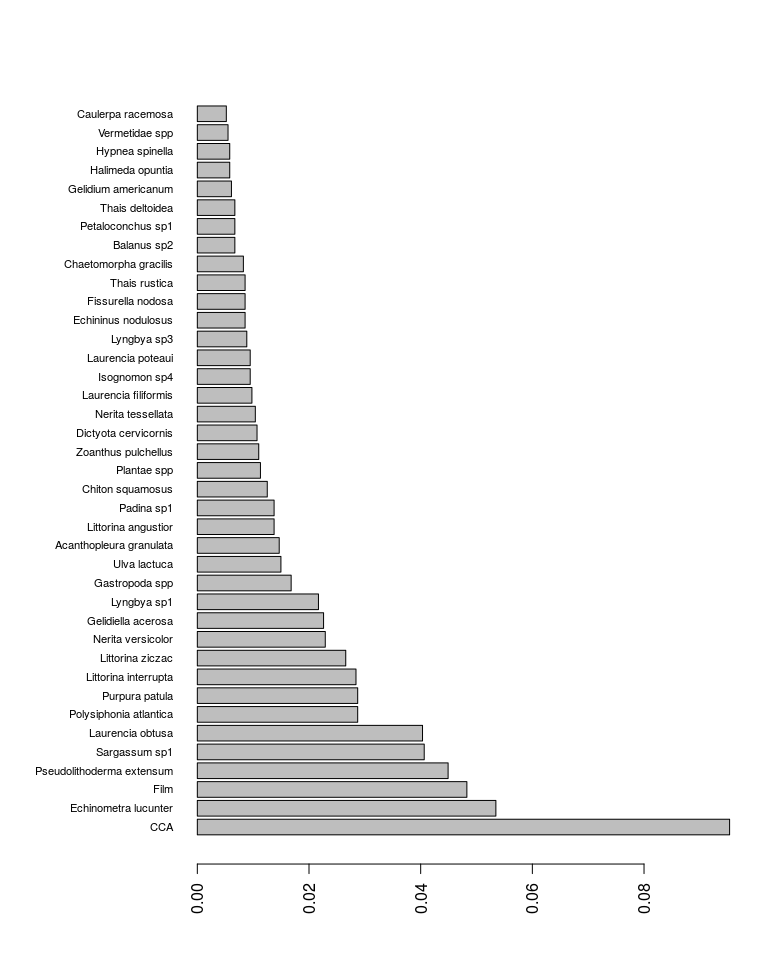
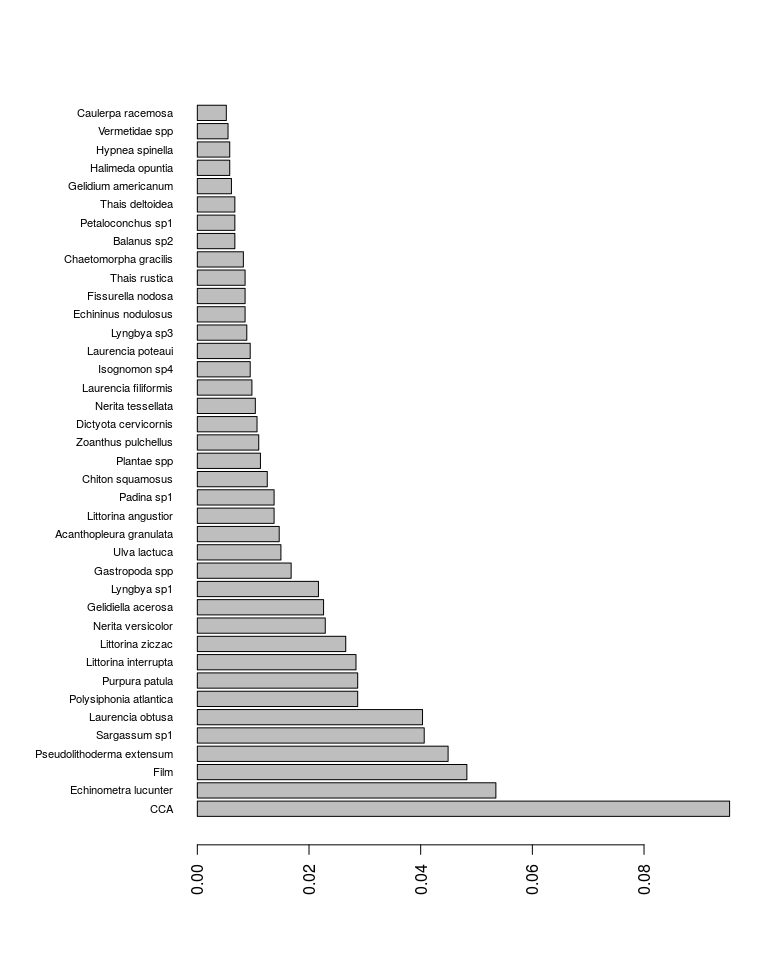
bigger last plot

Changed region(s): [[0.0312, 0.0938, 0.9688, 0.9375]]

diff --git a/SARCE_taxaList.md b/SARCE_taxaList.md
@@ -290,7 +290,7 @@ limit75 = which(taxafrec.df$Freq.accum>0.75)[1]
 ## do the plot with the reduced data frame
 ## note that this time we will be plotting a data frame not a table like the previous plot
 ## change the margins to accomodate long labels
-par(mar=c(5,10,4,2))
+par(mar=c(6,10,4,2))
 ## make the plot
 barplot(taxafrec.df$Freq[1:limit75], names.arg = taxafrec.df$Var1[1:limit75],  las=2, cex.names=0.7, horiz = T)
 ```
